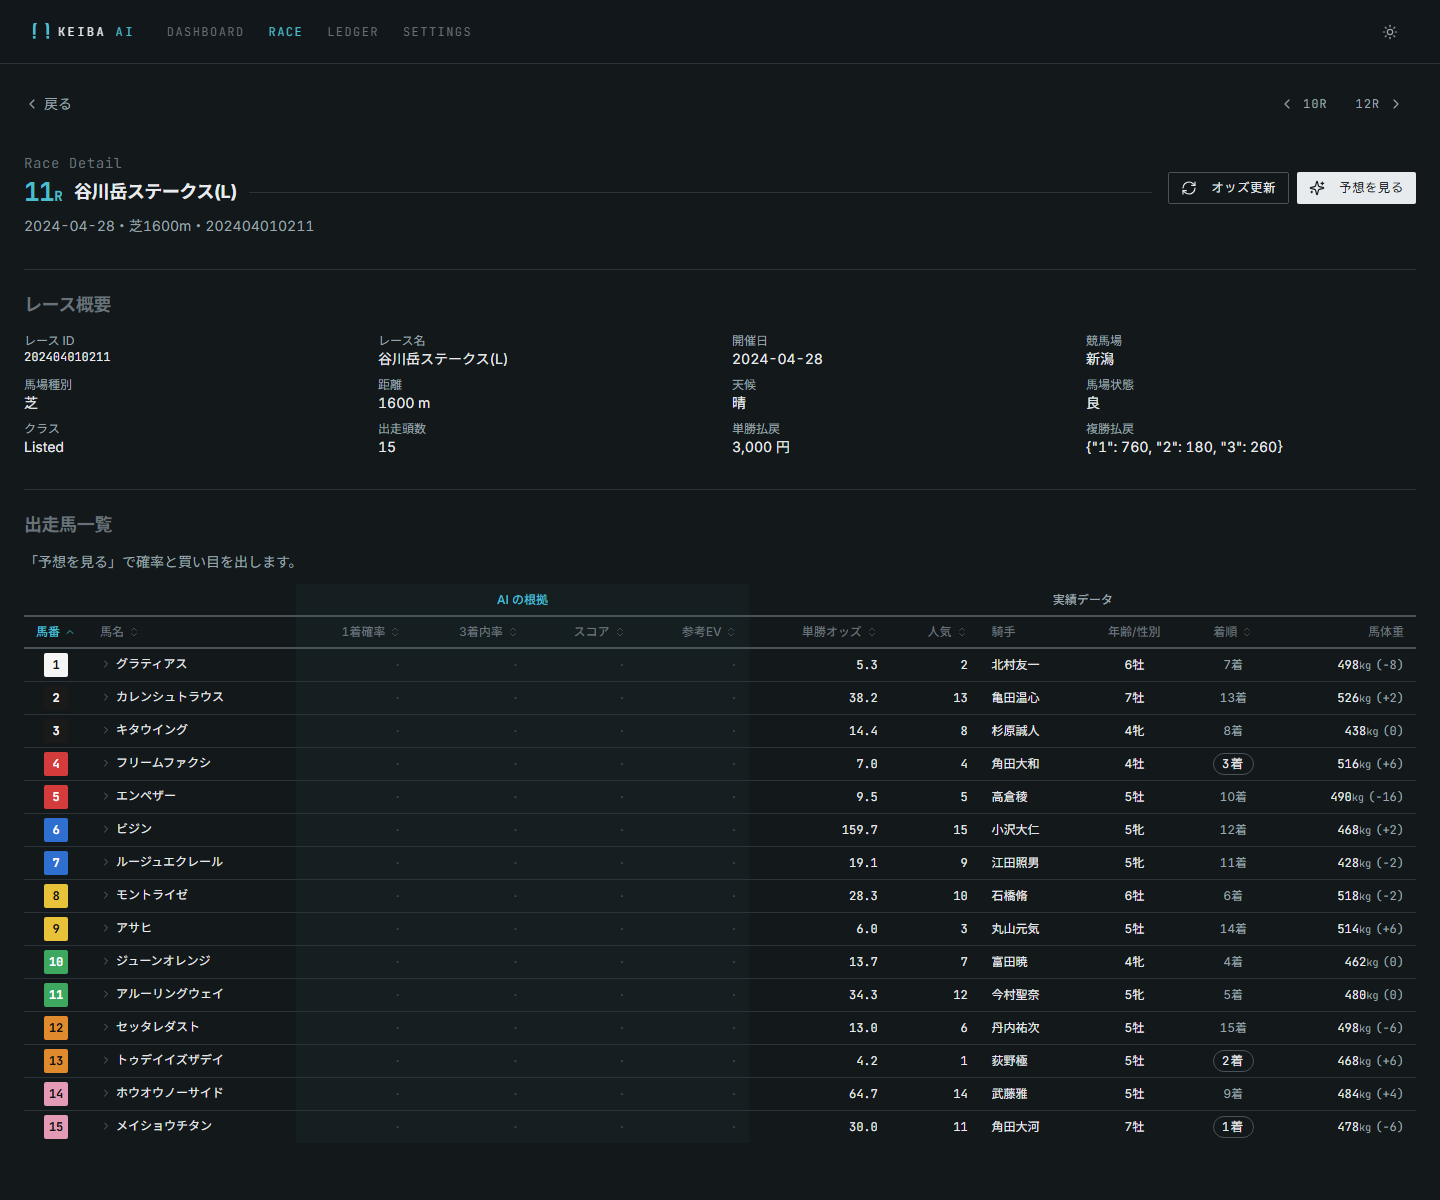
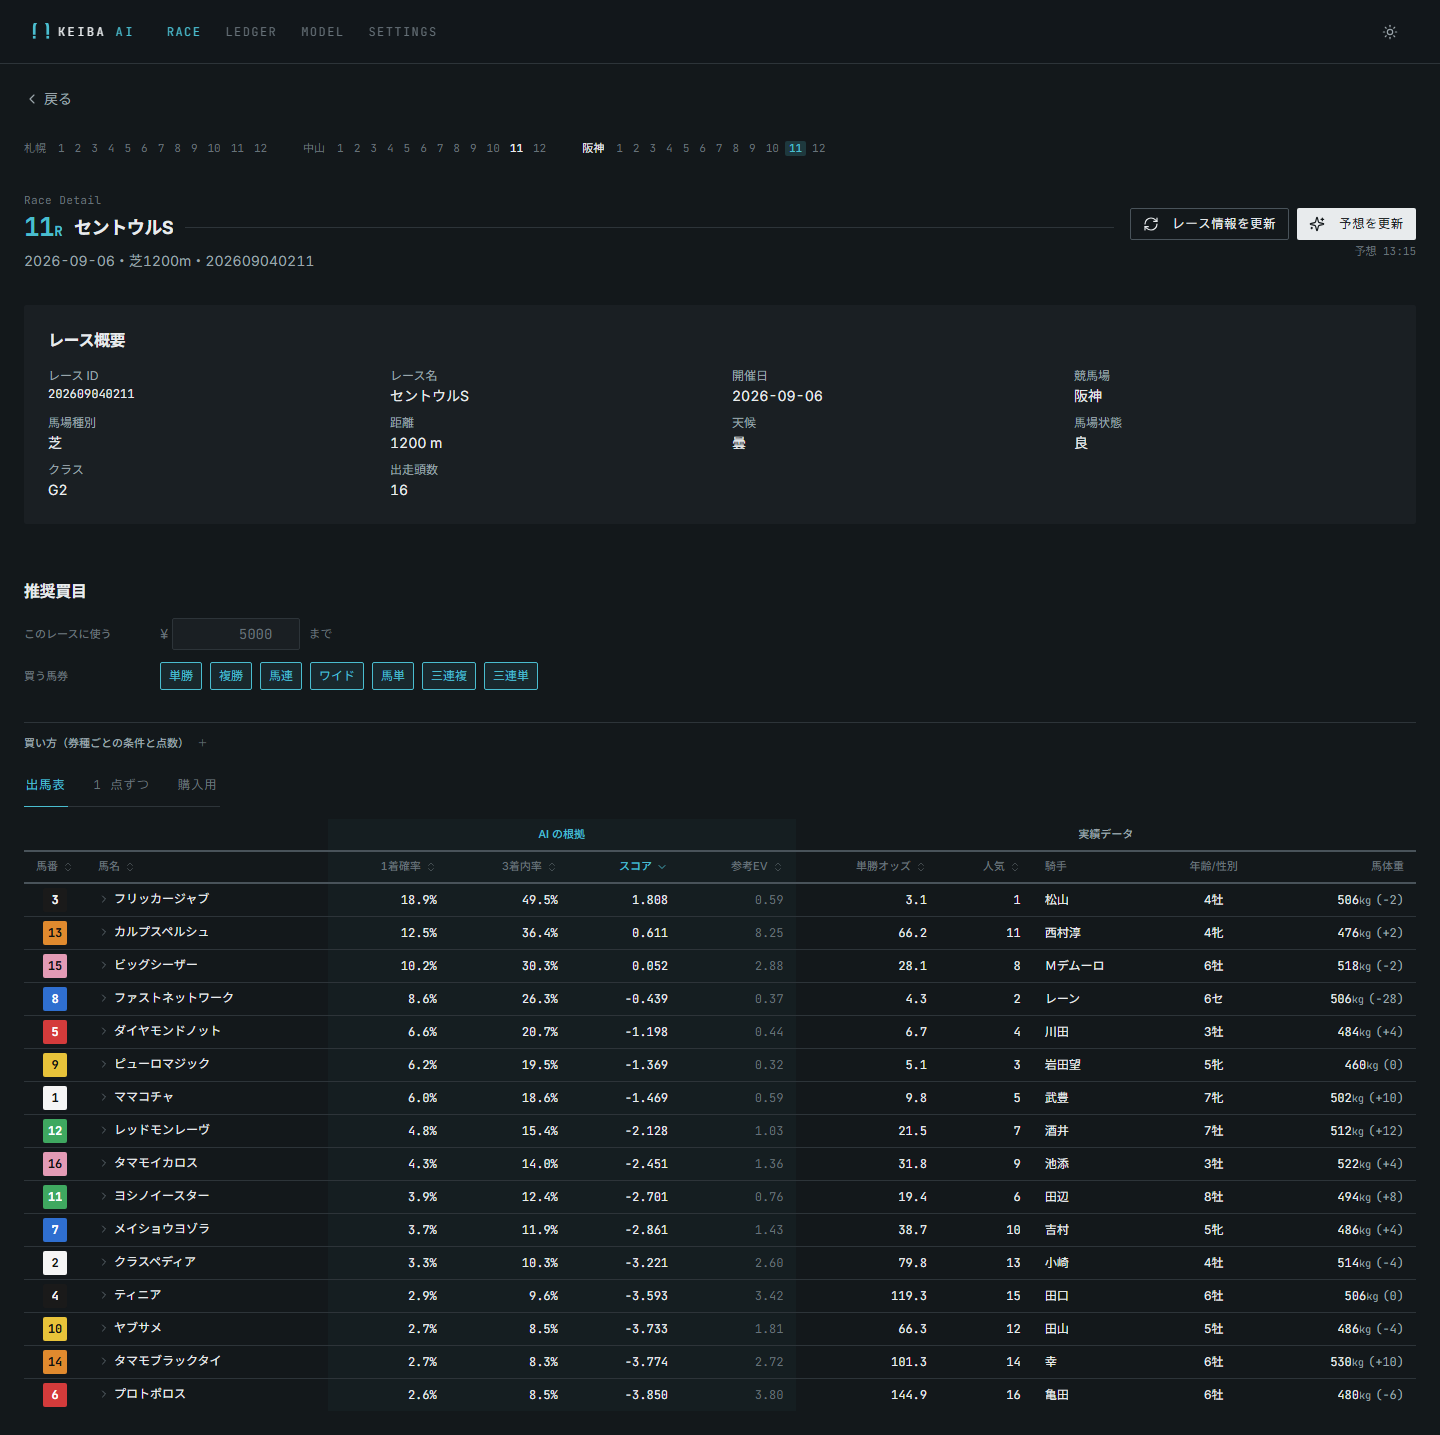
docs: README の画面キャプチャを撮り直し、撮り直しをスクリプトにする
5 枚のうち 4 枚が古かった (2026-09-05 撮影・翌日には Topbar が別物)。
撮り直しのコストが高いのが放置の理由だったので、まず道具を作った。

`frontend/scripts/screenshots.mjs`
- playwright は入れない。**Windows に元からある Chrome / Edge を CDP で叩く**ので
  追加インストールが要らない (この環境は Norton の TLS 傍受で npm / pypi への
  到達が不安定)。`ws` は vite の依存から借りる
- **クリックを挟めるのが要点。**レース詳細は「予想を見る」を押さないと AI の列が
  空のまま撮れて、製品として意味のない絵になる
- skeleton が消えるまで待ってから撮る。ページの実高に合わせて全体を撮る
  (App が `h-screen overflow-hidden` なので、高さは `<main>` から測る)
- リサイズ後は recharts のアニメーションがやり直しになるので 2.2s 待つ

撮り直したもの
- race-list / race-detail / models / ledger の 4 枚
- `dashboard.png` は**対応する画面がもう無い**ので撮っていない。README の
  キャプションごと portfolio:begin〜end の内側にあり、直す場所は portfolio-site

ledger 用の見本データ
- 台帳が 0 件で全部「まだありません」の絵になるため、過去 6 開催日の推奨買目を
  118 件記録した (`notes = '見本 (README キャプチャ用)'`)。レースもオッズも払戻も
  実在するが、**実際に買った記録ではない**。画面のメモ列にその文字列が出るので
  キャプチャ自体が見本であることを示す。消し方は `.claude/judgments.yml`

diff --git a/docs/operations.md b/docs/operations.md
@@ -384,6 +384,25 @@ pnpm lint
 
 ---
 
+## 画面キャプチャの撮り直し
+
+README の画像 (`docs/images/`) は `frontend/scripts/screenshots.mjs` で撮り直す。
+
+```bash
+cd frontend
+node scripts/screenshots.mjs             # 全部
+node scripts/screenshots.mjs race-detail # 1 枚だけ
+```
+
+**Vite と FastAPI が動いていること**が前提で、取込済みの DB と学習済みモデルが要る
+（無いと空の画面が撮れる）。playwright は入れず、Windows に元からある Chrome / Edge を
+CDP で叩く。**クリックを挟めるのが要点**で、レース詳細は「予想を見る」を押さないと
+AI の列が空のまま撮れてしまう。撮る日付とレースはスクリプト冒頭の `SHOTS` に固定して
+あるので、データが動いたらそこを直す。
+
+`dashboard.png` だけは対応する画面が無いので撮っていない
+（理由は `.claude/judgments.yml`）。
+
 ## 障害対応（トラブルシューティング）
 
 このセクションは、症状別に原因・確認方法・対処を示します。
